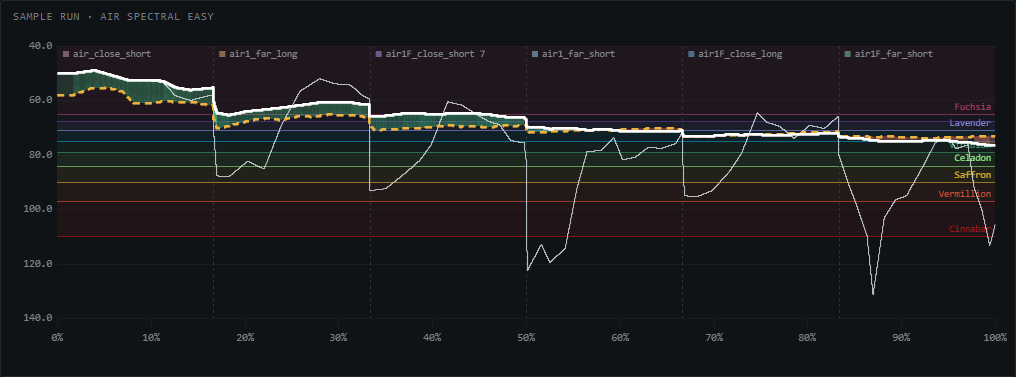
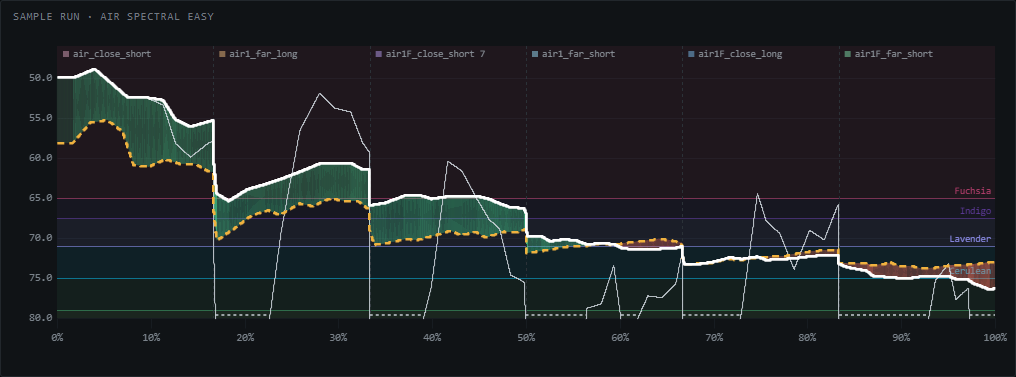
docs: the benchmark sheet in the README, About and preview docs
New benchmark screenshot in place of the progression one, retaken pace
and bots, and the preview pipeline described for the CSV-only sample.

Claude-Session: https://claude.ai/code/session_014EkwJFtZ9Z7zsQA68omJgm

diff --git a/scripts/shots.ts b/scripts/shots.ts
@@ -6,7 +6,7 @@
  *   public/og.png            #/dev/card, the whole 1200×630 viewport
  *   docs/images/pace.png     About's pace chart   ([data-shot="pace"])
  *   docs/images/bots.png     About's bot table    ([data-shot="bots"])
- *   docs/images/progress.png About's progression ([data-shot="progress"])
+ *   docs/images/benchmark.png About's benchmark sheet ([data-shot="benchmark"])
  *
  * Needs `pnpm dev` running (or BASE_URL). Chrome is found at its usual install
  * path, or set CHROME. Uses a throwaway profile, so it never touches your data.
@@ -76,8 +76,8 @@ try {
 	await shoot('[data-shot="og"]', 'public/og.png');
 
 	// Tall enough that every panel is on screen; the page scrolls in `main`, not the window.
-	await open('#/about', 1200, 3200, `document.querySelectorAll('[data-shot] canvas').length === 2 && !!document.querySelector('[data-shot="bots"]')`);
-	for (const name of ['pace', 'bots', 'progress']) await shoot(`[data-shot="${name}"]`, `docs/images/${name}.png`);
+	await open('#/about', 1200, 4400, `document.querySelectorAll('[data-shot] canvas').length === 2 && !!document.querySelector('[data-shot="bots"]')`);
+	for (const name of ['pace', 'bots', 'benchmark']) await shoot(`[data-shot="${name}"]`, `docs/images/${name}.png`);
 } finally {
 	browser.kill();
 	await new Promise((r) => setTimeout(r, 500));

diff --git a/docs/preview-assets.md b/docs/preview-assets.md
@@ -12,16 +12,21 @@ This is how to refresh them. Design background:
 | `test/fixtures/demo/` | every completed run of the demo scenarios in `test/fixtures/raw/` | `pnpm gen:demo-fixtures` |
 | `src/data/demo-snapshot.json` | the demo fixtures, through the real ingest and queries | `pnpm gen:demo` |
 | `public/og.png` | the dev-only `#/dev/card` route | `pnpm shots` |
-| `docs/images/{pace,bots,progress}.png` | the About page's `[data-shot]` panels | `pnpm shots` |
+| `docs/images/{pace,bots,benchmark}.png` | the About page's `[data-shot]` panels | `pnpm shots` |
 
 The demo scenarios are `DEMO_SCENARIOS` in `src/lib/demo/snapshot.ts`:
 
 - **Air Spectral Easy**: About's pace chart and bot table show one of its runs,
   `DEMO_RUN_STEM`, picked because it led its PB-before mid-run and finished
   behind. The About copy reads those numbers from the data.
-- **VT Aether Intermediate S5** (`DEMO_PROGRESS_HASH`): About's progression
-  chart, picked for its steady climb. Drawn by attempt, not date, because its
-  runs cluster into stretches months apart.
+About's third beat, the benchmark sheet, is one category of one difficulty, `DEMO_BENCHMARK_ID`
+and `DEMO_CATEGORY` (Viscose Benchmarks S2 Medium, Reactive Tracking): one
+category, because a whole difficulty is too much at once. Its scenarios come
+from the benchmark snapshot, every version of each name. Their fixtures are
+CSVs only, without `.perf`s: ARC needs nothing but scores, and the perfs would
+only grow LFS. The snapshot holds just their scenario rows and history. The
+sheet's "now" is the sample's last run, so nothing in it turns stale as the
+sample ages.
 
 ## Full refresh
 
@@ -38,7 +43,8 @@ After new runs in the author's KovaaK's install, or changing a demo scenario:
    ```
 
 2. **`pnpm gen:demo-fixtures`** rewrites `test/fixtures/demo/` with the
-   completed runs of each demo scenario and their `.perf` files. Resets are
+   completed runs of each demo scenario and their `.perf` files, and the
+   completed runs of the benchmark sheet's scenarios as CSVs alone. Resets are
    left out, because the real ingest decides what counts as completed. It runs
    in vitest (the ingest needs Vite), in its own mode; `pnpm test` skips it.
 

diff --git a/README.md b/README.md
@@ -4,7 +4,7 @@
 
 aimcurve reads the stats KovaaK's already saves after every run and shows how each one
 unfolded: where you pulled ahead, which bot cost you, and whether you are actually
-getting better. It runs entirely in your browser.
+climbing your benchmarks. It runs entirely in your browser.
 
 **[Open aimcurve →](https://voidfill.github.io/aimcurve/)**
 
@@ -23,11 +23,14 @@ with the biggest losses marked. Hover a row to light its encounters up on the ch
 
 ![The per-bot splits table](docs/images/bots.png)
 
-**Whether you are improving.** Every run of a scenario over time: each run a dot, your
-best so far and the median of your last ten as lines, so one lucky run cannot fake
-progress.
+**Whether you are climbing your benchmarks.** Every scenario, subcategory and category of a
+benchmark difficulty on one rank axis. Each row's candle is your last runs, worst to
+best with the median marked, next to your PB, so you see how reliably you reach a rank,
+not only whether you once did. Any row folds open into its history. Categories combine
+into ARC, aimcurve's own rank composite, which is not Voltaic's, Evxl's or any official
+score.
 
-![66 runs of one scenario over three months, the median climbing from about 2000 to 2800](docs/images/progress.png)
+![One category of a benchmark sheet: each scenario's recent runs as a candle on the rank axis, with PB and median rank pills](docs/images/benchmark.png)
 
 ## How to use it
 

diff --git a/docs/benchmarks.md b/docs/benchmarks.md
@@ -184,6 +184,11 @@ scenario is shown against. It is a select joined to an arrow that opens the
 selected difficulty's sheet (left out for none, or a difficulty without a
 sheet). Each option names the rank the PB reaches on it.
 
+**The About page** ends its walkthrough with one category of a real sheet
+(Viscose Benchmarks S2 Medium, Reactive Tracking) from the bundled sample: the
+same table without the column legend, the fold actions or stored settings, its
+category open. See [preview-assets.md](preview-assets.md).
+
 **The scenario page** shows the scenario's row from the selected benchmark,
 exactly as the sheet draws it (the same legend, lane, pills and tooltip, from
 the same model). Its name cell says where the scenario sits ("in Clicking ›
